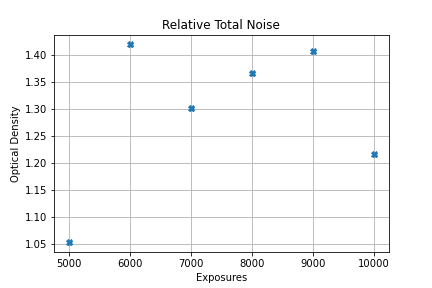
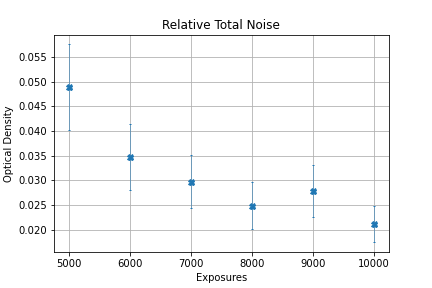
final plots

diff --git a/analysis_Task7.py b/analysis_Task7.py
@@ -78,10 +78,12 @@ plt.show()
 
 #%%
 
-relative_optical_density_noise = (1.2173, 1.4068, 1.3672, 1.3029, 1.4198, 1.0534)
+relative_optical_density_noise = ( -0.00699,  -0.015046 , -0.0085272 , -0.011589549 , -0.01568564,  -0.01547557)
+rel_op_dens_noise_delta = (0.021182, 0.027817, 0.024901871, 0.029738359, 0.034668914, 0.04885212)
+rel_op_dens_noise_err = (0.0037046, 0.005306, 0.00467379, 0.00537876, 0.006716826, 0.00871387)
 
 
-plt.plot(exposures, relative_optical_density_noise, marker = 'X', linewidth = 0)
+plt.errorbar(exposures, rel_op_dens_noise_delta, yerr = rel_op_dens_noise_err, marker = 'X', linewidth = 0, capsize = 1, elinewidth = 0.5)
 plt.grid()
 plt.xlabel('Exposures')
 plt.ylabel('Optical Density')
